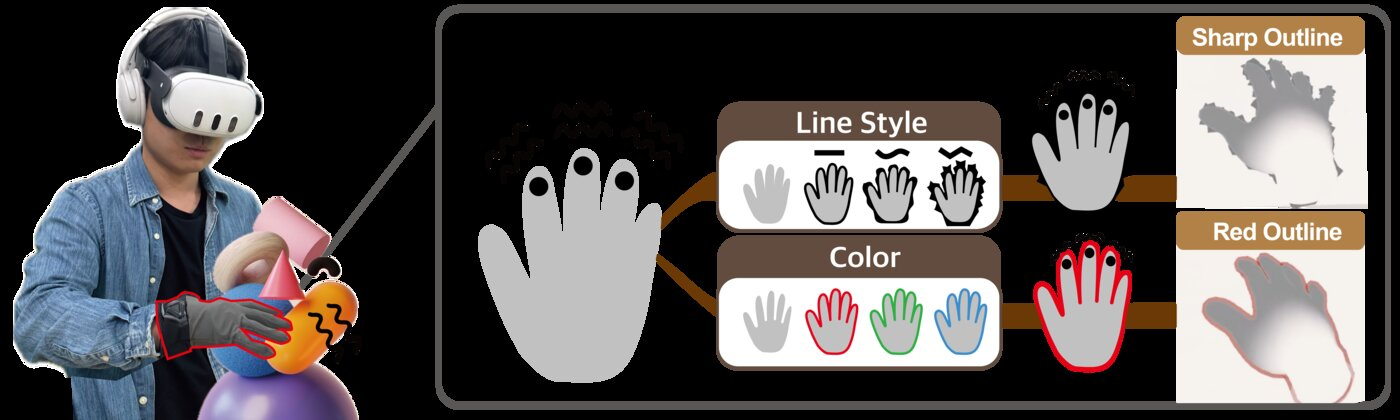
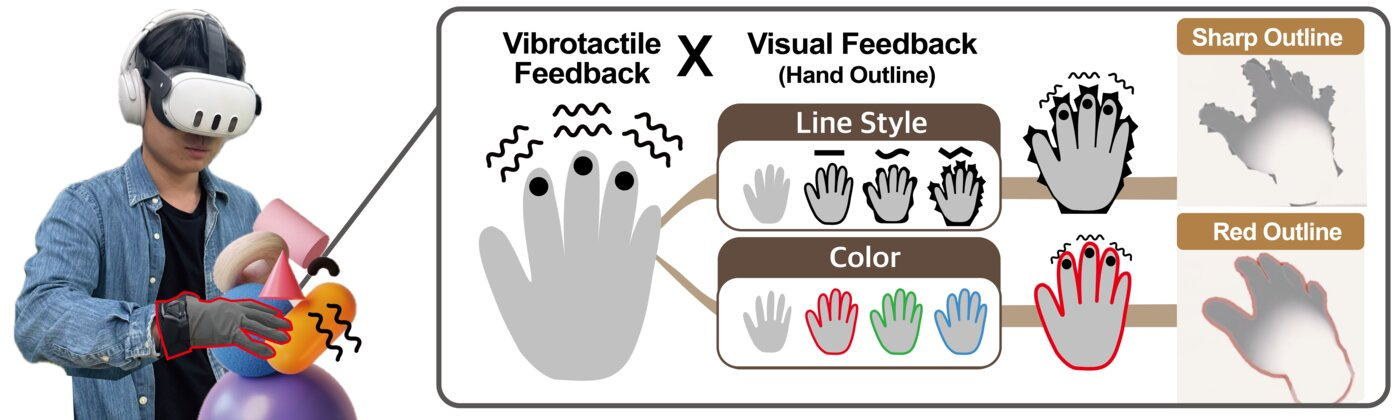
update style

diff --git a/style.css b/style.css
@@ -500,15 +500,15 @@ img { max-width: 100%; height: auto; display: block; }
 .pub-links a { font-size: 12px; color: var(--link); text-decoration: none; }
 .pub-links a:hover { text-decoration: underline; }
 .pub-teaser {
-  width: 100%; aspect-ratio: 16 / 9;
+  width: 100%; max-height: 280px;
   background: #fff; border: 1px solid var(--border);
   border-radius: 16px; overflow: hidden;
   margin-bottom: 12px;
   display: flex; align-items: center; justify-content: center;
-  padding: 16px;
+  padding: 14px;
 }
 .pub-teaser img {
-  max-width: 100%; max-height: 100%;
+  max-width: 100%; max-height: 250px;
   object-fit: contain; display: block;
   border-radius: 0;
 }
@@ -518,6 +518,7 @@ img { max-width: 100%; height: auto; display: block; }
   border-bottom: 1px solid var(--border);
 }
 .pub-year-header:first-child { margin-top: 0; }
+.pub-container { padding-top: 0; }
 
 /* Placeholder */
 .news-placeholder { text-align: center; padding: 60px 20px; color: var(--text-secondary); }

diff --git a/publications.html b/publications.html
@@ -57,7 +57,7 @@
   </div>
 </section>
 
-<section class="section">
+<section class="section" style="padding-top:32px;">
   <div class="container">
     <div class="pub-container">
 
